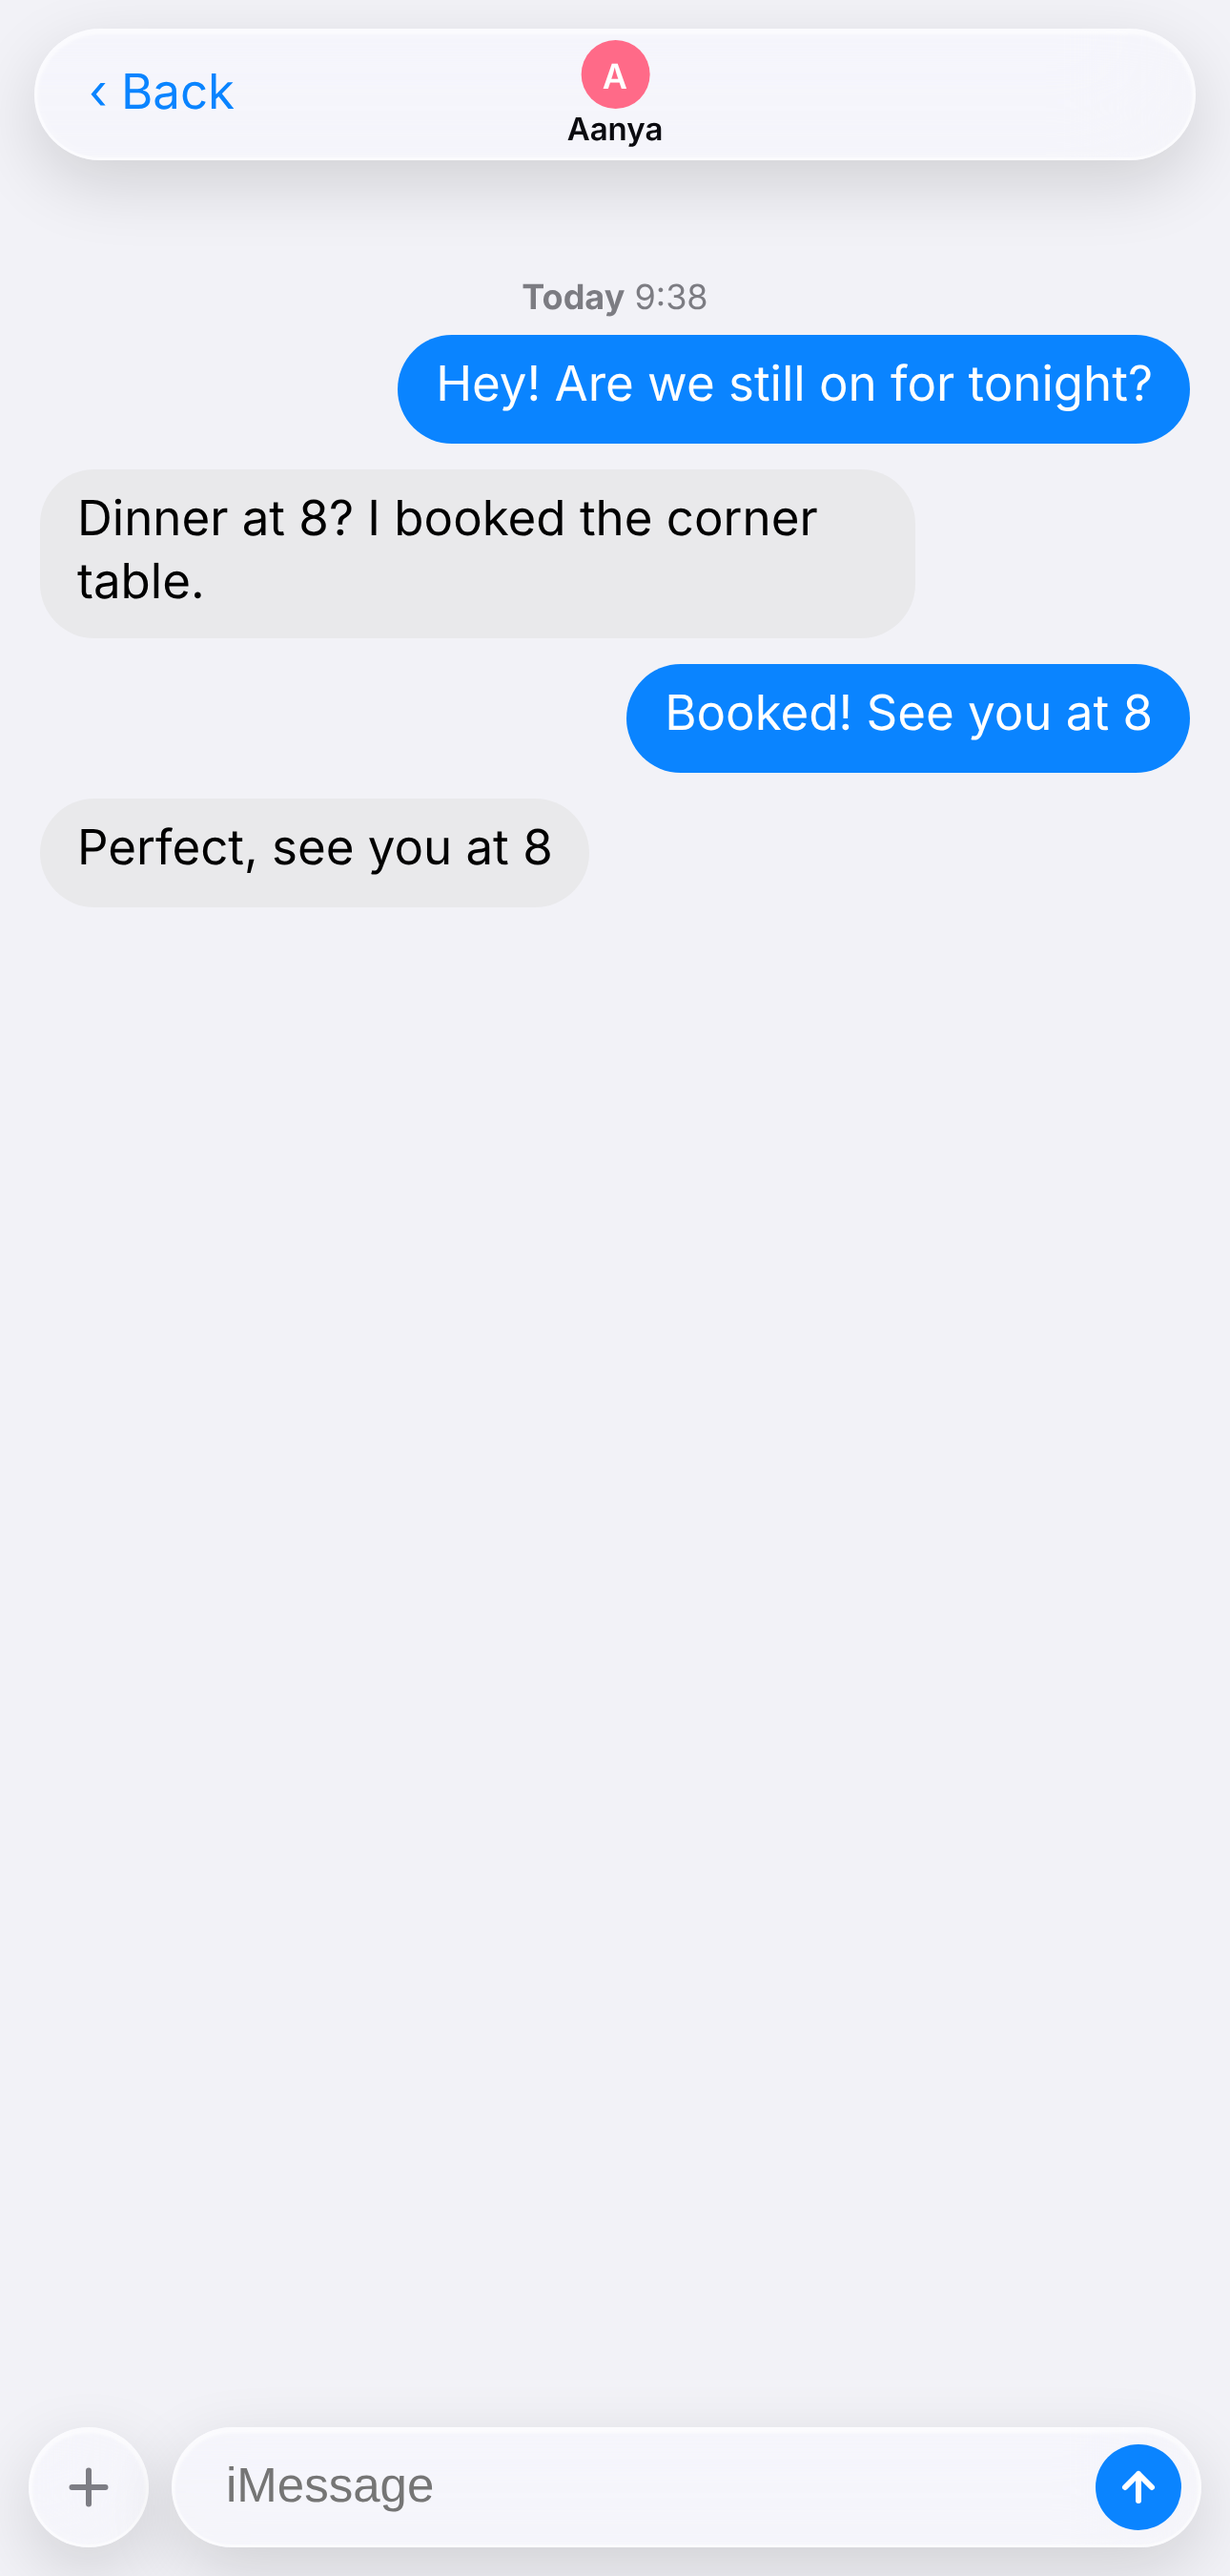
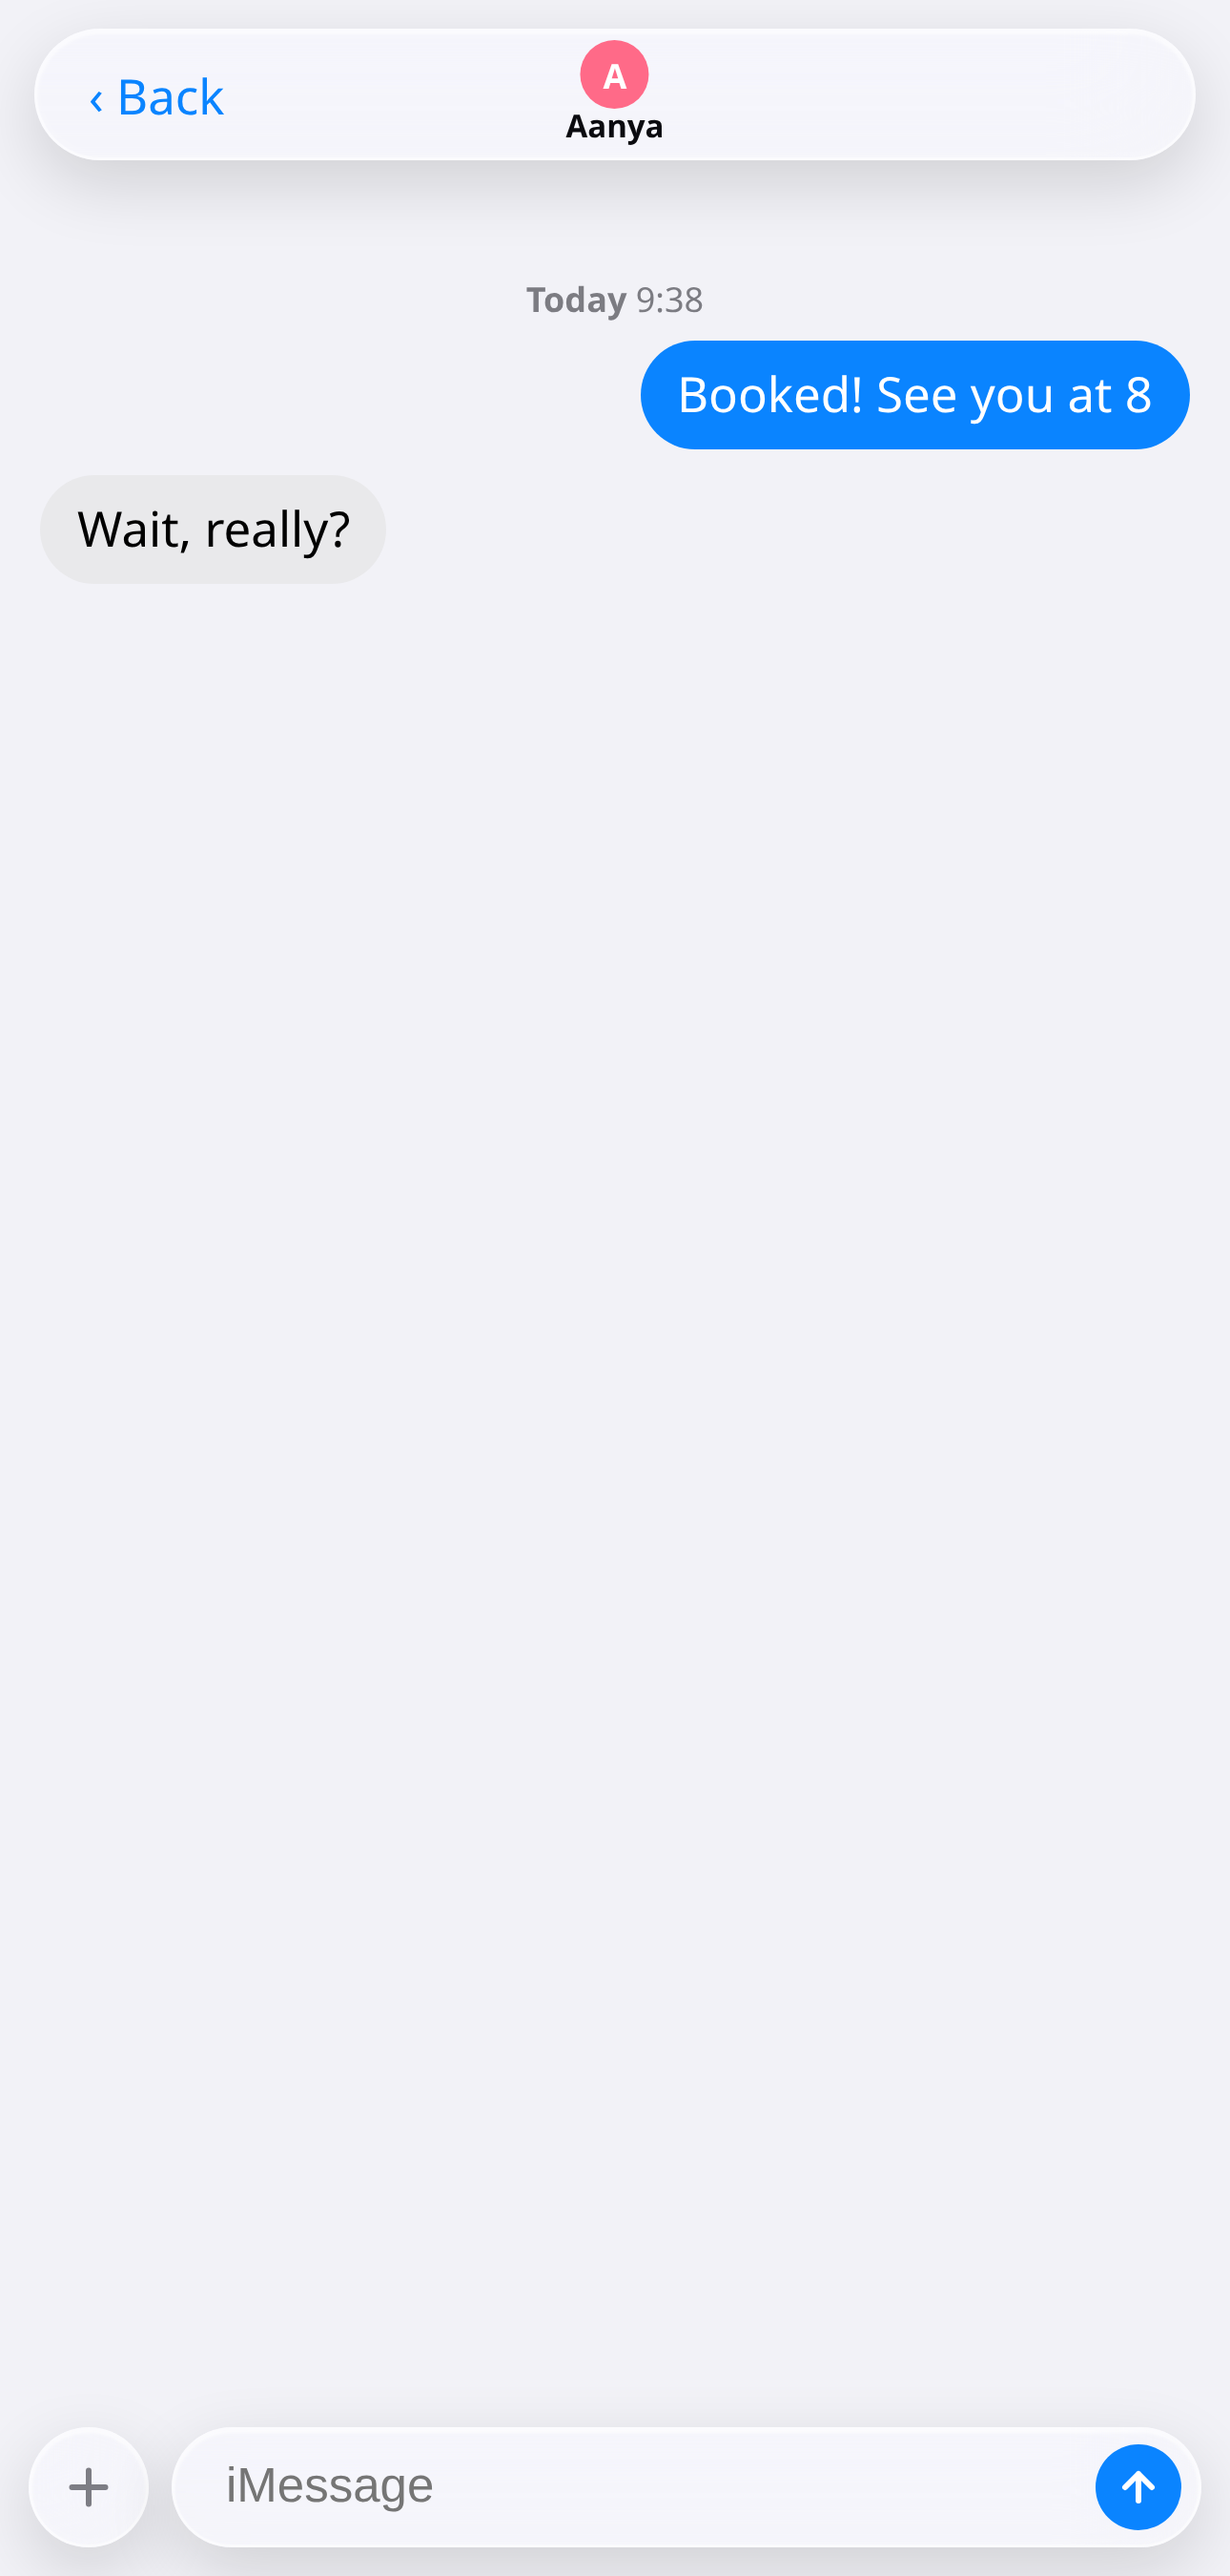
v1.3 — no demo chats, start a new conversation yourself
- Removed all seeded demo conversations and their messages; the app opens on an empty "No Conversations" inbox
- Compose sheet is now a real new-chat flow: type a name in "To:", tap Start chat
- Every message sent gets a default auto-reply (typing indicator, then a bubble), so a fresh chat never sits dead
- Version 1.3 (versionCode 4), signed APK ~50 KB, zero permissions, fully offline
- Screenshots re-rendered: empty inbox, new-chat sheet, fresh conversation, populated inbox

diff --git a/app/assets/index.html b/app/assets/index.html
@@ -70,6 +70,12 @@ input[type=range]{width:100%;accent-color:var(--out)}
 .ci svg{width:20px;height:20px}
 .ci.del{color:#ff3b30}
 .ghostrow:after{display:none}
+
+.newto{margin:0 0 12px}
+.newto input{width:100%;height:46px;border-radius:23px;padding:0 18px;font-size:17px;color:var(--tx);background:rgba(120,120,128,.14);border:1px solid var(--sep);outline:0;user-select:text;-webkit-user-select:text}
+.newto input::placeholder{color:var(--tx2)}
+.start{display:block;width:100%;padding:13px;border-radius:23px;background:var(--out);color:#fff;font-weight:600;font-size:17px;margin:0 0 6px;transition:opacity .2s}
+.start:disabled{opacity:.4}
 </style></head><body>
 <div class="phone" id="phone">
 <div class="blob" style="width:260px;height:260px;background:#ffd166;left:-60px;top:80px"></div>
@@ -99,15 +105,15 @@ input[type=range]{width:100%;accent-color:var(--out)}
   <div class="ctl"><label>Bounce speed <span id="v4"></span></label><input type="range" id="r4" min="1" max="10" value="5"></div>
   <div class="tg">Dark mode<button class="sw" id="td" aria-label="Toggle dark mode"></button></div>
   <button class="done glass" data-close>Done</button></div>
- <div class="sheet glass" id="sNew"><h2>New message</h2><div id="nlist"></div><button class="done glass" data-close>Cancel</button></div>
+ <div class="sheet glass" id="sNew"><h2>New message</h2><div class="newto"><input id="newName" placeholder="To: name" autocomplete="off" enterkeyhint="go"></div><button class="start" id="startChat" disabled>Start chat</button><button class="done glass" data-close>Cancel</button></div>
 </div>
 </div>
 <script>
 const $=s=>document.querySelector(s),R=document.documentElement;
 const S={on:true,k:.6,sp:.5};
-const people=[["Aanya","#ff6a88","Dinner at 8? I booked the corner table.","9:41"],["Rohan","#5e5ce6","Sent you the playlist, check it out","8:12"],["Mom","#30b0c7","Beta, call me when you are free","Yesterday"],["Design Team","#ff9f0a","Glass looks amazing on the new build!","Yesterday"],["Kabir","#34c759","Haha that was so good","Tuesday"],["Priya","#af52de","See you at the airport","Monday"]];
+const people=[];
 const T=people.map((p,i)=>({n:p[0],c:p[1],t:p[3],u:i==0||i==3,m:[{f:0,x:p[2]}]}));
-T[0].m.unshift({f:1,x:"Hey! Are we still on for tonight?"});
+const PALETTE=["#ff6a88","#5e5ce6","#30b0c7","#ff9f0a","#34c759","#af52de","#ff375f","#0a84ff"];
 const replies=["Sounds great! 😊","Haha okay","Wait, really?","On my way!","Let me check and tell you","Perfect, see you soon","😂😂","Okay done ✅"];
 let cur=null,busy=false;
 function ease(){const o=1+S.k*1.3;R.style.setProperty('--ease',`cubic-bezier(.3,${o.toFixed(2)},.5,1)`);R.style.setProperty('--dur',(0.9-S.sp*.6).toFixed(2)+'s');R.style.setProperty('--pd',S.on?(1-.14*S.k).toFixed(3):1)}
@@ -158,8 +164,15 @@ $('#back').onclick=()=>setTimeout(backThread,100);
 $('#send').onclick=sendMsg;$('#txt').onkeydown=e=>{if(e.key==='Enter')sendMsg()};
 $('#q').oninput=renderRows;
 $('#edit').onclick=()=>setTimeout(()=>sheet('#sSet'),100);
-$('#compose').onclick=()=>{$('#nlist').innerHTML=T.map((t,i)=>`<div class="row cont" data-i="${i}"><div class="av" style="background:${t.c};width:40px;height:40px;font-size:17px">${t.n[0]}</div><div class="rt"><b>${t.n}</b></div></div>`).join('');setTimeout(()=>sheet('#sNew'),100)};
-$('#nlist').onclick=e=>{const r=e.target.closest('.row');if(r){closeSheets();setTimeout(()=>openThread(+r.dataset.i),300)}};
+$('#compose').onclick=()=>{$('#newName').value='';$('#startChat').disabled=true;setTimeout(()=>sheet('#sNew'),100)};
+$('#newName').oninput=function(){$('#startChat').disabled=!this.value.trim()};
+$('#newName').onkeydown=function(e){if(e.key==='Enter'&&this.value.trim())startChat()};
+$('#startChat').onclick=()=>startChat();
+function startChat(){const n=$('#newName').value.trim();if(!n)return;$('#newName').blur();closeSheets();setTimeout(()=>newChat(n),280)}
+function newChat(name){const i=T.length;
+ T.push({n:name,c:PALETTE[i%PALETTE.length],t:'Now',u:false,m:[]});
+ renderRows();openThread(i);return i}
+
 $('#scrim').onclick=closeSheets;document.querySelectorAll('[data-close]').forEach(b=>b.onclick=()=>setTimeout(closeSheets,100));
 function bind(id,vid,fn,fmt){const r=$(id);const u=()=>{$(vid).textContent=fmt(+r.value);fn(+r.value)};r.oninput=u;u()}
 bind('#r1','#v1',v=>R.style.setProperty('--ga',v/100),v=>v+'%');

diff --git a/README.md b/README.md
@@ -8,8 +8,8 @@ WebView shell. No internet permission, no trackers, no libraries, ~50 KB APK.
 
 <p align="center">
   <img src="screenshots/01-home.png" width="220" alt="Home screen">
-  <img src="screenshots/02-messages.png" width="220" alt="Message list">
-  <img src="screenshots/05-reply.png" width="220" alt="Conversation">
+  <img src="screenshots/02-messages.png" width="220" alt="Empty inbox">
+  <img src="screenshots/08-new-message.png" width="220" alt="Start a new chat">
 </p>
 
 <p align="center">
@@ -29,7 +29,7 @@ WebView shell. No internet permission, no trackers, no libraries, ~50 KB APK.
 | | |
 |---|---|
 | Package | `com.liquidglass.messages` |
-| Version | 1.2 (versionCode 3) |
+| Version | 1.3 (versionCode 4) |
 | Min Android | 7.0 (API 24) |
 | Target Android | 14 (API 34) |
 | Size | ~50 KB |
@@ -43,17 +43,20 @@ WebView shell. No internet permission, no trackers, no libraries, ~50 KB APK.
 - **Spring / bounce motion** — a custom multi-keyframe spring curve drives app open,
   close, sheet presentation, message pop-in and press feedback. Strength and speed
   are adjustable at runtime.
-- **Messages list** — searchable, unread dots, relative timestamps, 1:1 and group
-  chats, tap-to-open with a parallax push transition.
-- **Conversation view** — sender/receiver bubbles, day stamp, "Delivered" receipt,
-  animated typing indicator and auto-reply.
+- **Starts empty** — no demo chats, no sample messages. The inbox opens on
+  *No Conversations* and fills up with whatever you create.
+- **New chat** — tap the compose button, type a name, hit **Start chat**. The
+  conversation opens immediately, ready to type into.
+- **Every message gets a reply** — send anything and the other side answers by
+  default (typing indicator first, then a bubble), so a fresh chat never sits dead.
+- **Messages list** — searchable, relative timestamps, 1:1 and group chats,
+  tap-to-open with a parallax push transition.
 - **Long-press any bubble** — a glass context menu opens with **Copy** (routed to the
   native Android clipboard) and **Delete** (bubble collapses, water droplets scatter
   and a synthesized water-splash sound plays — no audio files, all Web Audio).
 - **Long-press a conversation row** — the row lifts into a floating card with a
   **Delete** action; the chat collapses away with a softer water trickle. Clearing
   the last chat shows the *No Conversations* empty state.
-- **Compose sheet** — start a new chat from any contact.
 - **Settings sheet** — transparency %, blur radius, bounce strength/speed, bounce
   on/off, and a light/dark theme switch, all applied live.
 - **Hardware back button** — unwinds the UI (context menu → sheet → thread → app)
@@ -62,17 +65,21 @@ WebView shell. No internet permission, no trackers, no libraries, ~50 KB APK.
 
 ## Screenshots
 
-| Home | Messages | Conversation |
+| Home | Empty inbox | New chat |
 |---|---|---|
-| ![](screenshots/01-home.png) | ![](screenshots/02-messages.png) | ![](screenshots/03-thread.png) |
+| ![](screenshots/01-home.png) | ![](screenshots/02-messages.png) | ![](screenshots/08-new-message.png) |
+
+| Fresh conversation | Inbox after chatting |
+|---|---|
+| ![](screenshots/03-thread.png) | ![](screenshots/11-inbox.png) |
 
 | Typing | Reply | Dark |
 |---|---|---|
 | ![](screenshots/04-typing.png) | ![](screenshots/05-reply.png) | ![](screenshots/06-dark.png) |
 
-| Glass & Bounce settings | New message | Long-press bubble |
-|---|---|---|
-| ![](screenshots/07-settings.png) | ![](screenshots/08-new-message.png) | ![](screenshots/09-context-menu.png) |
+| Glass & Bounce settings | Long-press bubble |
+|---|---|
+| ![](screenshots/07-settings.png) | ![](screenshots/09-context-menu.png) |
 
 | Long-press conversation → delete |
 |---|
@@ -109,6 +116,16 @@ export ANDROID_SDK=/path/to/android-sdk     # needs build-tools/34.0.0 + platfor
 `android.jar`, dexes with `d8`, aligns with `zipalign` and signs with `apksigner`.
 It generates a local keystore on first run — **replace it with your own key before
 publishing to the Play Store**.
+
+## What's new in 1.3
+
+- **Demo content removed** — the six seeded chats and their messages are gone.
+  The app starts on an empty *No Conversations* inbox.
+- **New-chat flow** — the compose sheet now has a *To: name* field and a
+  **Start chat** button; no more picking from a hard-coded contact list.
+- **Default auto-reply** — every message you send gets an answer, so a brand-new
+  conversation behaves like a real one.
+- Screenshots re-rendered for the empty inbox, the new-chat sheet and a real inbox.
 
 ## What's new in 1.2
 
